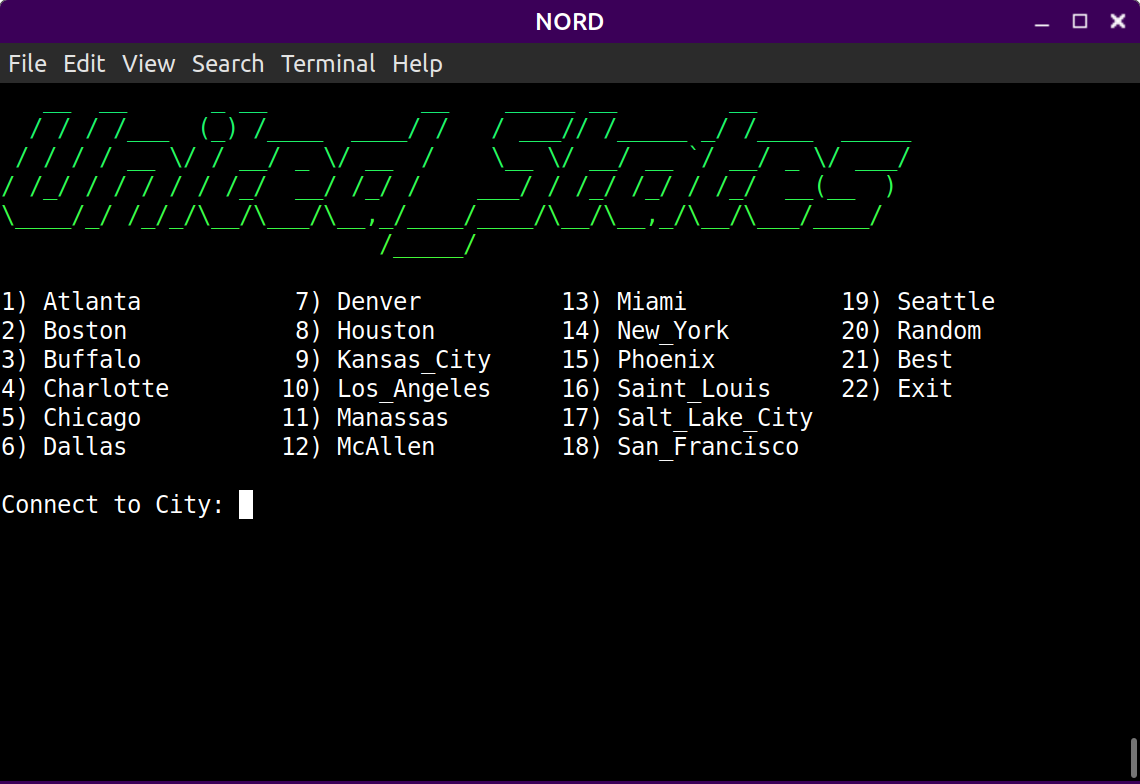
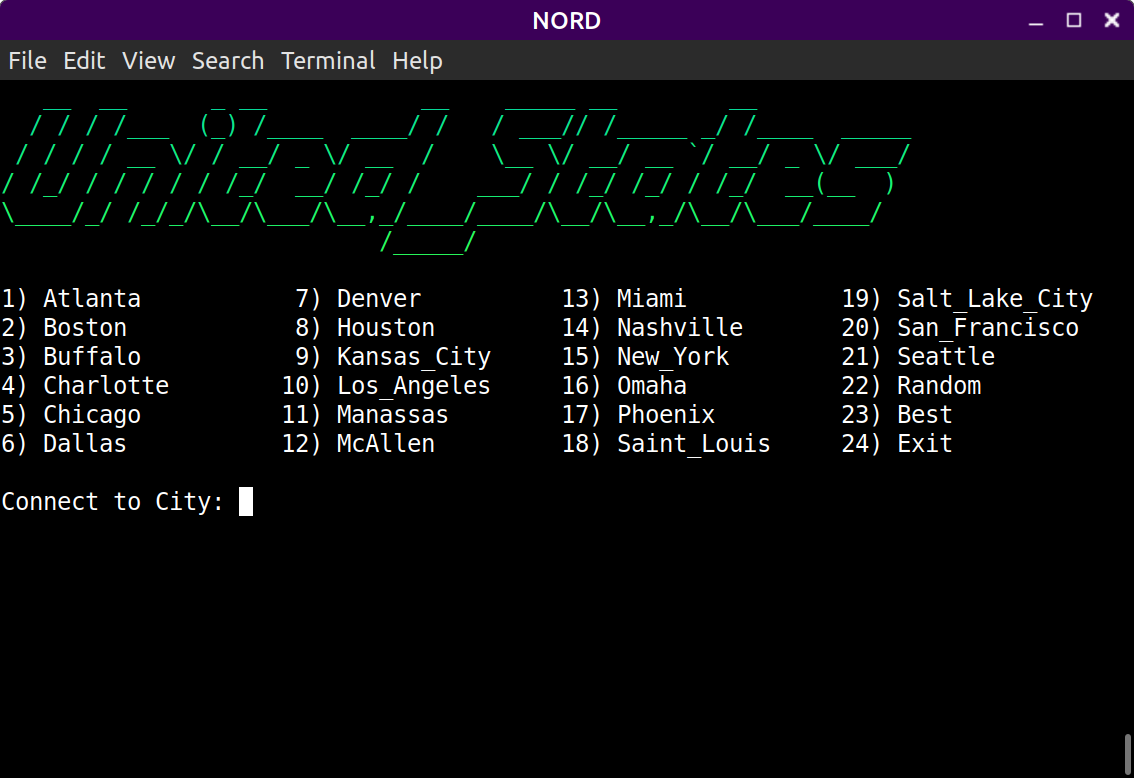
Nord 3.20.3 update
No major changes to script.
New USA locations: Omaha Nebraska, Nashville Tennessee

diff --git a/README.md b/README.md
@@ -4,7 +4,7 @@ Unofficial bash script to use with the NordVPN Linux CLI.
 Tested on Linux Mint with gnome-terminal and Bash v5.  
 Should work fine on Ubuntu but is not tested with other distros.  
 Fully customizable.  All menu options and locations can be changed.  
-Includes a basic applet for the Cinnamon Desktop.  
+Includes a basic applet for the Cinnamon Desktop (optional).  
 Screenshots available in the [screenshots](https://github.com/ph202107/nordlist/tree/main/screenshots) folder.  
 This script was made for personal use, there is no affiliation with NordVPN.  
 
